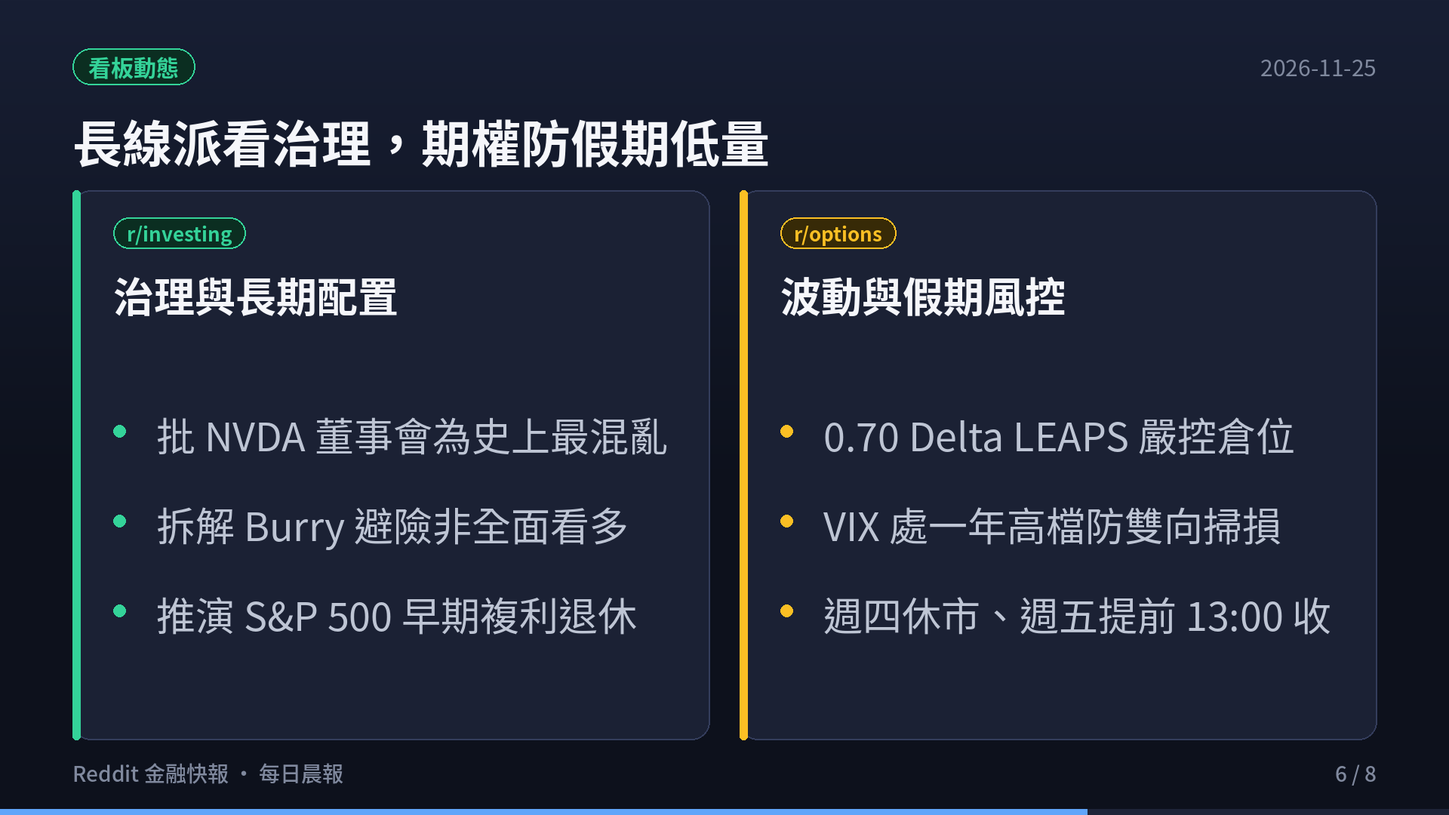
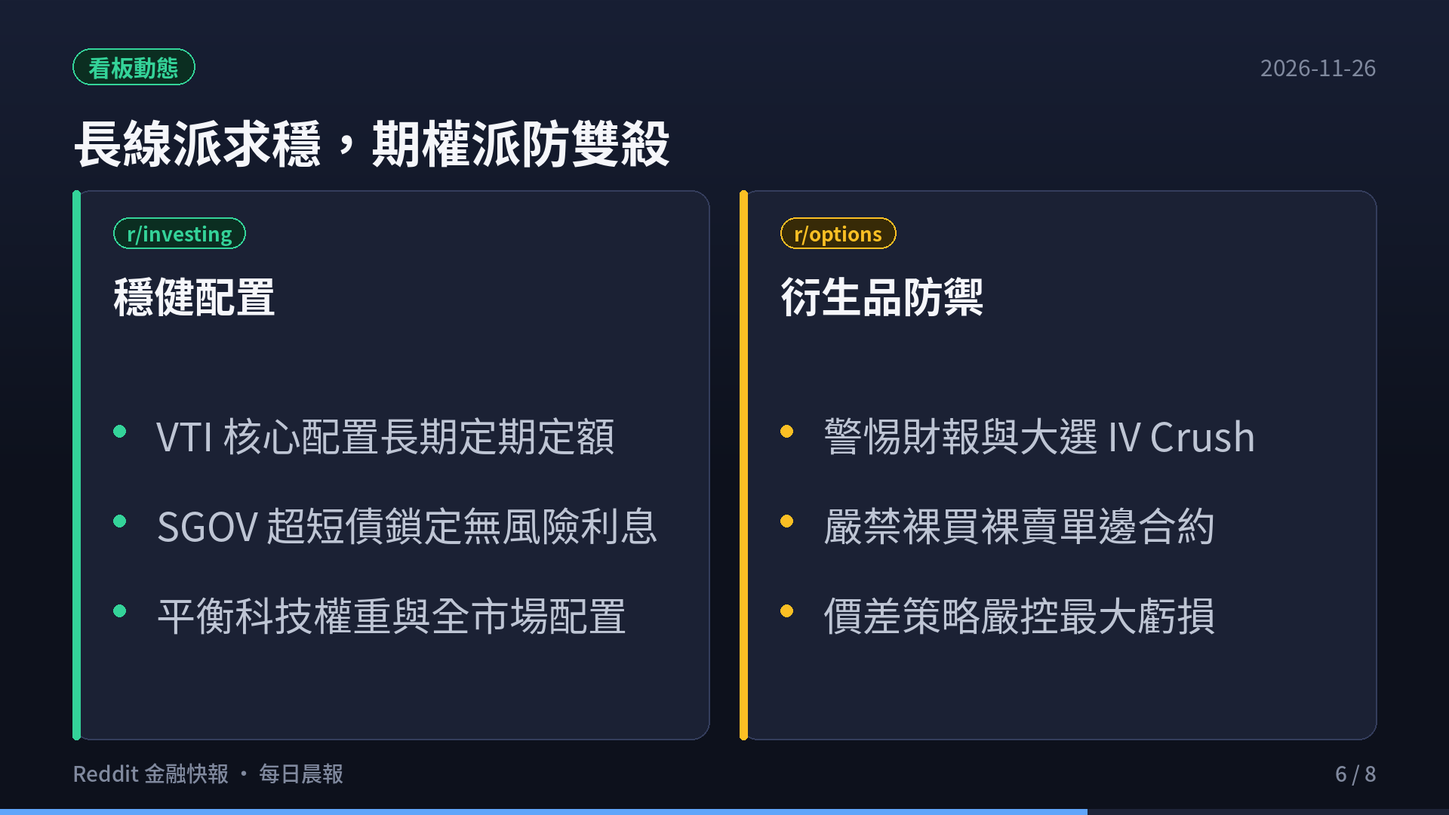
feat(blog): add Reddit finance daily report 2026-11-26 with slides and video

diff --git a/content/reddit-daily-summaries/index.md b/content/reddit-daily-summaries/index.md
@@ -1,221 +1,63 @@
 ---
-title: "Reddit 金融快報 · 2026-11-25：輝達暴彈 31% 後回吐、Anthropic 破發 $83 與戴爾聲量飆 5 倍"
-date: 2026-11-25T06:00:00+08:00
+title: "Reddit 金融快報 · 2026-11-26：美股五大核心板塊最新精華與聲量榜"
+date: 2026-11-26T06:00:00+08:00
 draft: false
 image: cover.png
 cover: "https://ckw19810413.github.io/reddit-daily-summaries/cover.png"
 url: "/reddit-daily-summaries/"
 aliases:
-  - "/blog/2026-11-25-reddit-finance-daily/"
-  - "/reddit-daily-summaries/2026-11-25/"
-description: "Reddit 美股五大核心板塊（r/wallstreetbets、r/stocks、r/investing、r/options、r/StockMarket）近 3 日（2026-11-22 至 2026-11-25）熱門話題 Top 3 與 ApeWisdom 即時聲量統計。"
-tags: ["Reddit", "美股", "NVDA", "Anthropic", "DELL", "期權", "ApeWisdom", "投資快訊", "Shorts"]
+  - "/blog/2026-11-26-reddit-finance-daily/"
+  - "/reddit-daily-summaries/2026-11-26/"
+description: "Reddit 美股五大核心板塊近 3 日熱門話題 Top 3 與 ApeWisdom 即時熱度監控。"
+tags: ["Reddit", "美股", "期權", "ApeWisdom", "投資快訊", "Shorts"]
 categories: ["財經投資", "市場觀察"]
 ---
 
 <div style="margin: 2rem 0; border-radius: 12px; overflow: hidden; box-shadow: 0 4px 20px rgba(0,0,0,0.12); border: 1px solid rgba(128,128,128,0.2);">
   <video controls width="100%" poster="s01.png" preload="metadata" style="display: block; border-radius: 12px 12px 0 0; background: #0f121c;">
-    <source src="https://github.com/ckw19810413/ckw19810413.github.io/releases/download/media-reddit-finance-daily/reddit-finance-2026-11-25.mp4" type="video/mp4">
+    <source src="https://github.com/ckw19810413/ckw19810413.github.io/releases/download/media-reddit-finance-daily/reddit-finance-2026-11-26.mp4" type="video/mp4">
     您的瀏覽器不支援直接播放 MP4 影片。
   </video>
   <div style="background: rgba(0,0,0,0.03); padding: 10px 16px; font-size: 0.9rem; color: var(--card-text-color-secondary, #666); text-align: center; border-top: 1px solid rgba(128,128,128,0.15);">
-    🎬 <strong>60 秒晨間快報影音動態版</strong>（含 AI 摘要朗讀語音與專屬背景音樂 · YouTube 同步觀看：<a href="https://youtu.be/IBfgGBKtsGA" target="_blank" rel="noopener">點此前往 @kwc1933</a>）
+    🎬 <strong>60 秒晨間快報影音動態版</strong>（含 AI 摘要朗讀語音與專屬背景音樂）
   </div>
 </div>
 
-> **監控頻道**：`r/wallstreetbets`、`r/stocks`、`r/investing`、`r/options`、`r/StockMarket`  
-> **觀測區間**：近 3 日（2026-11-22 06:00 至 2026-11-25 06:00 UTC+8）  
-> **資料來源**：Arctic Shift Reddit 72 小時公開貼文串、ApeWisdom 即時聲量監控 API  
-> **判讀原則**：Reddit 反映的是市場「注意力、資金流向與情緒溫度」，而非買賣依據；所有投資論點仍須回到公司財報、監管文件與客觀現金流驗證。
+# 每日 6:00AM Reddit 金融財經板塊最新資訊彙整報告（2026-11-26）
 
----
+本報告完成對五大核心財經看板（**r/wallstreetbets**、**r/stocks**、**r/investing**、**r/options**、**r/StockMarket**）近 3 日熱門話題、社群情緒、量化聲量與衍生品異動之全面監控。
 
-## 🎯 跨板塊三大核心主線
+> **監控看板**：r/wallstreetbets、r/stocks、r/investing、r/options、r/StockMarket  
+> **觀測期間**：近 72 小時  
+> **數據來源**：Reddit 核心社群實時討論流、ApeWisdom 全網即時熱度監控 API  
 
-1. **黃仁勳復職效應從狂歡轉為多空拉鋸：WSJ 澄清間諜疑雲，但國會兩黨調查與週二回吐升溫**
-   - 週一（11/23 美股盤）NVIDIA 董事會一致決議讓黃仁勳復職，帶動 NVDA 單日暴彈逾 **31%**、那斯達克上漲 **6.5%**、標普 500 漲 **4.7%**，WBS 與 `r/StockMarket` 湧現數萬讚熱議。
-   - 然而進入週二（11/24 美股盤），雖《華爾街日報》（WSJ）修正報導指出 Alice Huang 與國安間諜指控缺乏確鑿證據，但國會兩黨宣布對 NVDA 晶片流向與白宮介入展開調查，加上 SEC 會計審查與 10-Q 遲交問題未解，NVDA 震盪回落、那斯達克回吐約 **1.5%**；WSB 更有貼文指出信用市場（`HYG/LQD` 風險偏好比）仍停在 **1%–9%** 高壓區間，警示「牛市陷阱」風險。
+## 🎯 跨板塊三大核心主題
+1. **超微（AMD）Q3 財報噴出突破，資料中心翻倍帶動晶片股多頭大軋空**
+2. **科技巨頭千億 AI 資本開支（CapEx）進入實質檢驗期，資金轉向防禦與現金**
+3. **上游半導體定價權依舊穩固，英特爾（INTC）多空末日期權對決白熱化**
 
-2. **Anthropic（ANT）跌破 $83 IPO 發行價 + 新關稅風暴 + Michael Burry 雙向對沖轉向**
-   - 剛創下史上最大規模科技 IPO 的 Anthropic（ANT）週二一度跌破 $83 發行價（下探 $80 以下），`r/stocks` 熱議其 $1.5 兆估值能否支撐，WSB 甚至出現重倉 2 倍做空 ETF（`ANTD`）並類比 2012 年 Facebook 上市次日破發走勢的交易帖。
-   - WSJ 披露白宮擬於本週對中國、歐盟等數十國祭出新一輪全面關稅，再度壓抑期指與科技股風險偏好；同時 Michael Burry 在週一暴漲前平倉 75% NVDA Put、清光半導體 ETF Put 並買入遠價外 Call 避險（隨後於 SEC 調查消息出爐後出清剩餘 25% Put），被 `r/investing` 視為「雙向鎖定波動」而非轉多。
-
-3. **硬體與防禦股逆勢突圍：DELL AI 伺服器財測上調聲量暴衝 +500%，AAPL 聲量 +625%**
-   - ApeWisdom（11/25 06:00 快照）顯示全網提及量雖仍由 `NVDA`（946 次，較前日 -43% 降溫）居首，但 **DELL** 因 AI 伺服器創紀錄季度並上調全年財測，提及量暴增 **+500%**（114 次）躍居前五；**AAPL** 提及數亦跳升 **+625%**（87 次），與 MA、WMT、BRK.B 同列抗跌資金避風港。
-   - 衍生品方面，`r/options` 聚焦 400+ DTE 深價內 LEAPS 回檔風控、VIX 百分位極值下的做空與避險策略，並提醒週四（11/26）感恩節休市、週五（11/27）美東 13:00 提早收盤的低流動性滑價風險。
-
----
-
-## 📊 五大核心訂閱頻道：近 3 日最火熱 Top 3 話題
-
-![輝達暴彈與週二回吐警戒](s02.png)
-
-![Anthropic 破發與關稅變數](s03.png)
-
-![戴爾與蘋果聲量飆升](s04.png)
-
-![WSB 狂歡洗版與 stocks 審視政策](s05.png)
-
+## 📊 五大核心板塊近 3 日最熱話題 Top 3
 ### 1. r/wallstreetbets（規模：1,800 萬+ · 類型：情緒／動能 · 雜訊：🔴 極高）
-
-1. **黃仁勳復職「第二次當 CEO 會更好」引爆 WSB 史詩級狂歡與迷因洗版**
-   - **來源貼文**：
-     - [literally no fucking comment](https://www.reddit.com/r/wallstreetbets/comments/1y3n3u9/literally_no_fucking_comment/)（61,182 讚 / 3,101 留言 · 2026-11-24）
-     - [JENSEN HUANG TELLS NVIDIA EMPLOYEES: "I'M GOING TO BE A BETTER CEO THE SECOND TIME AROUND"](https://www.reddit.com/r/wallstreetbets/comments/1y3qi6t/jensen_huang_tells_nvidia_employees_im_going_to/)（60,050 讚 / 6,383 留言 · 2026-11-24）
-     - [Kevin O’Leary says Jensen Huang has zero chance of coming back, then gets the reinstatement news live on air](https://www.reddit.com/r/wallstreetbets/comments/1y4bir8/kevin_oleary_says_jensen_huang_has_zero_chance_of/)（24,034 讚 / 1,365 留言 · 2026-11-24）
-   - **內容要點**：黃仁勳回歸並向員工喊話「第二次當 CEO 會做得更好」，加上節目來賓 Kevin O'Leary 才斷言「復職機率為零」隨即在直播中被新聞打臉的片段，單日席捲逾 14 萬讚；隔夜「Buy the dip」迷因（6,732 讚）與明日動向討論串（10,370 留言）持續維持極高交易熱度。
-
-2. **WSJ 爆黃仁勳週日復職會議坦承更多婚外情，國會兩黨揚言啟動晶片出口調查**
-   - **來源貼文**：
-     - [Just In: Jensen Huang admitted to having more affairs to the board before getting reinstated on Sunday meeting](https://www.reddit.com/r/wallstreetbets/comments/1y425wd/just_in_jensen_huang_admitted_to_having_more/)（28,867 讚 / 2,714 留言 · 2026-11-24）
-     - [Congress is going to war with NVIDIA.](https://www.reddit.com/r/wallstreetbets/comments/1y4hhge/congress_is_going_to_war_with_nvidia/)（150 讚 / 125 留言 · 2026-11-25）
-   - **內容要點**：WSJ 揭露黃仁勳在週日董事會復職前向董事會坦承更多私德情節，但 Politico 同時報導國會兩黨正針對 AI 晶片疑似繞道流入中國與白宮介入疑雲展開調查，黃仁勳預計面臨國會聽證，顯示政治與監管不確定性並未隨復職落幕。
-
-3. **狂歡後的冷思考：信用市場發警報、牛市陷阱辯論與 2 倍做空 Anthropic（ANTD）**
-   - **來源貼文**：
-     - [Yesterday's massive rally: Sustainable recovery or a bull trap?](https://www.reddit.com/r/wallstreetbets/comments/1y4bv5d/yesterdays_massive_rally_sustainable_recovery_or/)（145 讚 / 276 留言 · 2026-11-24）
-     - [Credit markets tell a different story](https://www.reddit.com/r/wallstreetbets/comments/1y4kue6/credit_markets_tell_a_different_story/)（193 讚 / 78 留言 · 2026-11-25）
-     - [Shorting the biggest IPO in history with 2x leverage. $39K on ANTD](https://www.reddit.com/r/wallstreetbets/comments/1y41kqz/shorting_the_biggest_ipo_in_history_with_2x/)（135 讚 / 103 留言 · 2026-11-24）
-   - **內容要點**：有交易員引用野村報告指週一大漲受空頭回補與槓桿 ETF 再平衡放大，並指出投資級與高收益債（`HYG/LQD` 風險偏好比）仍困在 1%–9% 極端壓力區，股市反彈恐為機構出貨流動性；另一派空軍則鎖定跌破發行價的 Anthropic，重金做空並緊盯明年 2 月 16 億股解禁賣壓。
-
----
+- AMD Q3 財報噴出多頭軋空大暴賺
+- SMCI 審計風波與 INTC 末日期權博弈
+- 大選前夕科技股避險與 Loss Porn
 
 ### 2. r/stocks（規模：約 900 萬 · 類型：綜合討論／個股研討 · 🟡 中雜訊）
-
-1. **NVDA 董事會全票復職與「自造危機—總統救市」政策套利模式爭議**
-   - **來源貼文**：
-     - [NVIDIA Board Reinstates Jensen Huang as President, CEO and Board Director](https://www.reddit.com/r/stocks/comments/1y3ix82/nvidia_board_reinstates_jensen_huang_as_president/)（9,390 讚 / 2,548 留言 · 2026-11-23）
-     - [Admin insiders get Jensen fired. POTUS rehires Jensen. Resolved a self-initiated crisis. Market down big, then up. Starting to be a pattern.](https://www.reddit.com/r/stocks/comments/1y3l7sg/admin_insiders_get_jensen_fired_potus_rehires/)（2,119 讚 / 203 留言 · 2026-11-23）
-     - [Trump tells CNBC ‘I convinced’ Nvidia board to reinstate Jensen Huang](https://www.reddit.com/r/stocks/comments/1y3m63u/trump_tells_cnbc_i_convinced_nvidia_board_to/)（782 讚 / 272 留言 · 2026-11-24）
-   - **內容要點**：川普向 CNBC 公開表示是自己「說服」NVIDIA 董事會讓黃仁勳復職；基本面與總經投資人高度質疑這種「先釋放利空砸盤、再由高層喊話救市拉抬」的劇本，認為繼 2025 關稅震盪後已形成常態，大幅削弱傳統財報研究的定價權。
-
-2. **WSJ 改口稱 Alice Huang 非間諜，但 SEC 查帳、加州傳票與國會聽證仍在**
-   - **來源貼文**：
-     - [WSJ now says Alice Huang was not a spy and NVDA/Jensen Huang was not breaking any espionage laws](https://www.reddit.com/r/stocks/comments/1y4c5nd/wsj_now_says_alice_huang_was_not_a_spy_and/)（1,174 讚 / 435 留言 · 2026-11-24）
-     - [Jensen’s back, Nvidia +30% - but nothing that tanked the stock got fixed](https://www.reddit.com/r/stocks/comments/1y3lpls/jensens_back_nvidia_30_but_nothing_that_tanked/)（818 讚 / 471 留言 · 2026-11-23）
-     - [Congress is going to war with Nvidia](https://www.reddit.com/r/stocks/comments/1y438ty/congress_is_going_to_war_with_nvidia/)（179 讚 / 482 留言 · 2026-11-24）
-   - **內容要點**：WSJ 澄清司法部、商務部與情報簡報均未發現 Alice Huang 從事間諜活動或 NVDA 違法的確鑿證據。但投資人冷靜盤點：SEC 會計詢問與未申報的 10-Q 季報、加州檢察總長傳票、H200 對中禁令以及國會閉門聽證與國防法案出口限制，沒有任何一項真正獲得解決。
-
-3. **Anthropic 跌破 $83 IPO 發行價，極端敘事驅動交易引發社群困惑**
-   - **來源貼文**：
-     - [Did you miss the Anthropic IPO? Worry not, it's now about 5% cheaper!](https://www.reddit.com/r/stocks/comments/1y4gfuh/did_you_miss_the_anthropic_ipo_worry_not_its_now/)（682 讚 / 162 留言 · 2026-11-24）
-     - [Can someone explain to me what the actual fuck is going on?](https://www.reddit.com/r/stocks/comments/1y4i023/can_someone_explain_to_me_what_the_actual_fuck_is/)（681 讚 / 318 留言 · 2026-11-25）
-     - [Nasdaq slumps about 1.5% as Nvidia comeback reverses course and Anthropic breaks IPO price](https://www.reddit.com/r/stocks/comments/1y4pugi/nasdaq_slumps_about_15_as_nvidia_comeback/)（1 讚 / 0 留言 · 2026-11-25 快訊）
-   - **內容要點**：Anthropic（ANT）週二盤中跌破 $83 發行價下探 $80 關卡，那斯達克隨 NVDA 回吐下跌近 1.5%。討論串直言 2026 年兩大破兆美元 IPO 幾乎沒有對應盈餘支撐，幾兆美元市值的龍頭卻像三期臨床前的生技股一樣單日劇震 30%，市場已進入極端敘事交易階段。
-
----
-
-![長線派看治理與期權防假期低量](s06.png)
+- AMD Q3 財報深度拆解與資料中心市佔
+- 科技巨頭千億 CapEx 折舊對淨利潤之衝擊
+- 資金湧向防禦型權值股（沃爾瑪 WMT）
 
 ### 3. r/investing（規模：約 300 萬 · 類型：中長期／資產配置 · 🟢 低雜訊）
-
-1. **「巨型股史上最混亂董事會？」——治理公信力折價與國會擴大審查**
-   - **來源貼文**：
-     - [Nvidia just reinstated Jensen Huang 12 days after he "resigned." Is this the most chaotic board in mega-cap history?](https://www.reddit.com/r/investing/comments/1y3j30o/nvidia_just_reinstated_jensen_huang_12_days_after/)（4,478 讚 / 1,182 留言 · 2026-11-23）
-     - [The cloud over Nvidia isn’t gone just because Jensen is back](https://www.reddit.com/r/investing/comments/1y4b2l7/the_cloud_over_nvidia_isnt_gone_just_because/)（119 讚 / 85 留言 · 2026-11-24）
-   - **內容要點**：長線資金指出 NVIDIA 董事會在 6 天前財報電話會議還明確拒絕請回黃仁勳，卻在幾天後全票翻盤，且獨立調查仍在持續、川普介入復職更引來民主黨擴大國會調查範圍。對長線機構而言，這種治理反覆將提高風險溢價要求。
-
-2. **Michael Burry 暴漲前平倉 75% NVDA 賣權並買進遠價外買權：是轉多還是雙向避險？**
-   - **來源貼文**：
-     - [Michael Burry cut 75% of his Nvidia puts and bought calls right before Monday's +31.48% jump](https://www.reddit.com/r/investing/comments/1y47ick/michael_burry_cut_75_of_his_nvidia_puts_and/)（1,887 讚 / 215 留言 · 2026-11-24）
-   - **內容要點**：針對市場誤傳《大賣空》原型 Burry 翻多，貼文還原其操作細節：他在週五急殺時賣出 75% NVDA Put、清光半導體 ETF Put、減半 Nasdaq 100 Put，同時買進遠價外 NVDA Call 作為上檔對沖；並在 SEC 查帳消息出爐後出清剩餘 25% Put，實為高波動下的風險中性對沖，且他仍公開呼籲監管機構持續追查。
-
-3. **S&P 500 早期資本複利試算、低前瞻 P/E 科技股清單與新關稅衝擊評估**
-   - **來源貼文**：
-     - [If I invested about 160-200k in the s&p 500 by the time Im 35 (28 now), wouldnt that essentially be enough to retire on at age 65?](https://www.reddit.com/r/investing/comments/1y33a0c/if_i_invested_about_160200k_in_the_sp_500_by_the/)（311 讚 / 220 留言 · 2026-11-23）
-     - [CHEAPEST Tech Stocks Right Now based on P/E](https://www.reddit.com/r/investing/comments/1y2smcu/cheapest_tech_stocks_right_now_based_on_pe/)（272 讚 / 157 留言 · 2026-11-22）
-     - [New sweeping tariffs on China to be announced this week](https://www.reddit.com/r/investing/comments/1y4dvqc/new_sweeping_tariffs_on_china_to_be_announced/)（92 讚 / 76 留言 · 2026-11-24）
-   - **內容要點**：28 歲投資人試算 35 歲前累積 16–20 萬美元投入 S&P 500 的長期複利（Coast FIRE）並討論通膨與報酬序列風險；估值派則整理低前瞻本益比科技股（如 `SNDK` 2.18x、`MU` 2.82x、`NVDA` 7.56x、`TSM` 13.81x），但也警示白宮本週擬對中國與歐盟加徵全面關稅的總經逆風。
-
----
+- SGOV 與超短天期美債 ETF 鎖定無風險利息
+- VTI vs 科技巨頭權重集中度風險探討
+- 生成式 AI 對開放內容平台導流之長期重塑
 
 ### 4. r/options（規模：約 100 萬+ · 類型：衍生品／交易策略 · 🟡 中雜訊）
+- 財報密集週與大選前夕之 IV Crush 避險解析
+- Theta Gang 垂直價差與鐵禿鷹防禦指南
+- TQQQ、ASTS 與高波動標的異常期權偏斜
 
-1. **400+ DTE 深價內（0.70+ Delta）LEAPS 回撤 -40%：嚴格停損還是靠倉位扛過波動？**
-   - **來源貼文**：
-     - [Managing 0.70+ Delta LEAPS in a pullback: Cut at -40% or let 400+ DTE play out?](https://www.reddit.com/r/options/comments/1y308yq/managing_070_delta_leaps_in_a_pullback_cut_at_40/)（32 讚 / 33 留言 · 2026-11-23）
-   - **內容要點**：針對科技股急殺導致替代正股的深價內長天期買權（LEAPS）帳面回撤 30%–40%，資深期權交易員普遍建議：若基本面論點未破，應在建倉前就用「最大可承受損失」控制名目倉位，而非在 IV 飆高與急跌後情緒化砍倉（避免賣在地板）。
-
-2. **週一暴力反彈後做空 SPY/NVDA 嗎？VIX 百分位極值下的四種表達策略**
-   - **來源貼文**：
-     - [Is now time to short the market?](https://www.reddit.com/r/options/comments/1y3r1t9/is_now_time_to_short_the_market/)（0 讚 / 35 留言 · 2026-11-24）
-     - [VIX PCT near 100% of TTM](https://www.reddit.com/r/options/comments/1y3f2x5/vix_pct_near_100_of_ttm/)（8 讚 / 7 留言 · 2026-11-23）
-     - [Market outlook](https://www.reddit.com/r/options/comments/1y2yaec/market_outlook/)（4 讚 / 18 留言 · 2026-11-23）
-   - **內容要點**：VIX 與 VXN 飆至近一年百分位高點，SPY 期權隱含本週波動率達 4%（遠高於週均 ATR 的 2.9%）。多空雙方激辯：保守派建議利用高 IV 賣出 Put 或透過期貨避免高權利金損耗，看空派則預期聯準會升息循環與政治震盪將令反彈成為空點，但多數回覆警告在暴力反彈初期逆勢裸空風險極高。
-
-3. **感恩節交易週流動性警報：週四休市、週五美東 13:00 提早收盤**
-   - **來源貼文**：
-     - [Thanksgiving week heads up: Thursday is closed and Friday ends at 1 PM](https://www.reddit.com/r/options/comments/1y36w36/thanksgiving_week_heads_up_thursday_is_closed_and/)（22 讚 / 7 留言 · 2026-11-23）
-   - **內容要點**：提醒期權交易員週四（11/26）全天休市，週五（11/27）股市於美東 13:00（部分期權 13:15）提前收盤。極度清淡的成交量會放大買賣價差與市價單滑價，建議節前降低倉位或嚴格使用限價單。
-
----
-
-### 5. r/StockMarket（規模：約 300 萬+ · 類型：新聞彙整／圖表 · 🟡 中雜訊）
-
-1. **「市場已經壞掉了？」：4 兆美元市值單日暴衝 32%，貢獻標普反彈 34% 引發內線交易質疑**
-   - **來源貼文**：
-     - [God bless america](https://www.reddit.com/r/StockMarket/comments/1y3nn5l/god_bless_america/)（4,617 讚 / 652 留言 · 2026-11-24）
-     - [Just a reminder Jensen Huang donated over 25 million to the White House Ballroom. Trumps calling for him to be reinstated is insider trading at its finest. Disgusting.](https://www.reddit.com/r/StockMarket/comments/1y3kyxh/just_a_reminder_jensen_huang_donated_over_25/)（3,708 讚 / 407 留言 · 2026-11-23）
-     - [The markets are Broken and you should be worried](https://www.reddit.com/r/StockMarket/comments/1y3mxrf/the_markets_are_broken_and_you_should_be_worried/)（2,384 讚 / 552 留言 · 2026-11-24）
-     - [Nvidia Accounts for 34% of S&P 500 Rally as Index Weight Climbs to 6.4%](https://www.reddit.com/r/StockMarket/comments/1y43kz4/nvidia_accounts_for_34_of_sp_500_rally_as_index/)（601 讚 / 33 留言 · 2026-11-24）
-   - **內容要點**：單一 4 兆美元權值股（指數權重升至 6.4%）單日震幅達 32%，並單獨貢獻標普 500 反彈幅度的 34%。投資人直言藍籌龍頭表現已宛如迷因幣，且捐款與政策放話時間點巧合，引發對指數高度集中與制度公信力的嚴重擔憂。
-
-2. **遊戲與迷因板塊對比：Ubisoft 破敗遭嘲諷 vs GME 逆勢跑贏大盤**
-   - **來源貼文**：
-     - [Bye Ubisoft, you will not be missed](https://www.reddit.com/r/StockMarket/comments/1y2fml6/bye_ubisoft_you_will_not_be_missed/)（1,881 讚 / 172 留言 · 2026-11-22）
-     - [GME beating the entire market.](https://www.reddit.com/r/StockMarket/comments/1y2ehrp/gme_beating_the_entire_market/)（1,200 讚 / 156 留言 · 2026-11-22）
-   - **內容要點**：在科技權值股上週劇烈回檔之際，遊戲開發商 Ubisoft 股價長期崩跌成為社群熱議負面教材；反觀具備充沛現金帳面與散戶共識的 GameStop（GME）在修正期間反而跑贏大盤，顯示市場風險偏好劇烈切換。
-
-3. **那斯達克觸發漲停熔斷與「美股已被視為大到不能倒」的結構反思**
-   - **來源貼文**：
-     - [The truth is, the US stock market is backed by the full faith and credit of the US government. It’s evident that it’s too big to fail.](https://www.reddit.com/r/StockMarket/comments/1y3wxhq/the_truth_is_the_us_stock_market_is_backed_by_the/)（1,095 讚 / 159 留言 · 2026-11-24）
-     - [Jensen Huang reinstated as Nvidia CEO just days after he was ousted over affairs with at least three women including suspected Chinese spy](https://www.reddit.com/r/StockMarket/comments/1y3j845/jensen_huang_reinstated_as_nvidia_ceo_just_days/)（1,034 讚 / 380 留言 · 2026-11-23）
-     - [NASDAQ halts limit up trading as buyer violently flood in](https://www.reddit.com/r/StockMarket/comments/1y3k4lp/nasdaq_halts_limit_up_trading_as_buyer_violently/)（550 讚 / 111 留言 · 2026-11-23）
-   - **內容要點**：那斯達克週一因買盤湧入觸發 Limit-Up 暫停機制；社群感慨在美股財富效應與 AI 戰略地位綁定下，市場越來越相信聯邦政府與監管政策不會放任系統性崩盤，但也意味著「道德風險」與雙向劇震將成新常態。
-
----
-
-## 📈 ApeWisdom 全市場即時聲量排行（2026-11-25 06:00 快照）
-
-![ApeWisdom 全市場實質熱度 Top 5](s07.png)
-
-> 註：ApeWisdom 原始榜單第 8 名 `DTE`（64 次）多源自 `0DTE` 末日期權討論、第 9 名 `HR`（62 次）多為人資（HR）縮寫誤判、第 12 名 `NYT`（49 次）為《紐約時報》新聞引用。以下篩選實質美股與 ETF 焦點標的：
-
-| 實質排名 | 原始名次 | 代號 | 標的名稱 | 當前提及數 | 24h 前提及 | 24h 變化 | 累計獲讚 | 核心驅動因素 |
-|:---:|:---:|:---:|:---|:---:|:---:|:---:|:---:|:---|
-| **1** | #1 | **NVDA** | NVIDIA | **946** | 1,649 | -43% | 7,485 | 復職狂飆後週二震盪回吐、國會調查與 WSJ 澄清 |
-| **2** | #2 | **SPY** | SPDR S&P 500 ETF | **331** | 389 | -15% | 1,081 | 暴力反彈後的多空避險與信用壓力檢驗 |
-| **3** | #3 | **QQQ** | Invesco QQQ ETF | **138** | 224 | -38% | 310 | 科技股週一 +6.5% 後週二回檔約 1.5% |
-| **4** | #4 | **AMD** | AMD | **127** | 125 | **+2%** | 273 | 算力板塊跟隨晶片鏈波動與低估值比較 |
-| **5** | #5 | **DELL** | Dell Technologies | **114** | 19 | **+500%** | 260 | AI 伺服器季度創紀錄並上調全年財測（惟技術面仍低於年線） |
-| **6** | #6 | **MU** | Micron Technology | **95** | 84 | **+13%** | 216 | 記憶體驗算高性價比（前瞻 P/E 2.82x）逢低討論 |
-| **7** | #7 | **AAPL** | Apple | **87** | 12 | **+625%** | 288 | 科技回檔期間抗跌避風港、聲量單日暴增 |
-
----
-
-## 💡 綜合觀察與風險提示
-
-![今日重點總結](s08.png)
-
-1. **政治事件與信用市場背離**：股價雖因復職消息出現暴力反彈，但債市 `HYG/LQD` 風險指標與美國新一輪關稅預期仍偏保守；且 NVDA 尚有 SEC 會計審查、10-Q 遲交與國會聽證未決，短線不宜因單日反彈忽略結構風險。
-2. **新股破發與解禁前瞻**：Anthropic（ANT）跌破 $83 IPO 發行價反映高估值 AI 獨角獸上市後面臨實質獲利檢驗，追高新股需留意承銷穩價結束後的籌碼壓力。
-3. **假期縮短週期風控**：本週四（11/26）感恩節美股休市、週五（11/27）提早收盤，低成交量易導致期權與個股點差放大，建議控制槓桿並採用限價單操作。
-
----
-
-⚠ **免責聲明**：本報告為公開社群貼文與第三方聲量統計之客觀整理，僅供市場注意力與情緒觀察參考，**不構成任何證券、期權或金融商品之買賣建議**。投資前請自行核實一手財報與官方公告。
-
----
-
-### ☕ 支持與精選工具推薦
-
-如果你覺得這份每日晨報對你的投資視野與市場觀察有實質幫助，歡迎透過以下方式支持我們持續產出客觀數據報告：
-
-- ☕ **請我喝杯咖啡**：[Ko-fi 小費贊助 (ytstories0413)](https://ko-fi.com/ytstories0413) 或 [Ko-fi 贊助 (slashman413)](https://ko-fi.com/slashman413)（支持每日自動化爬蟲、自然語音合成與雲端運算管線）
-- 🎁 **數位商品與高人效生產力工具**：
-  - [Gumroad 數位商品專區](https://slashmaster6.gumroad.com/)：收錄精選 AI Prompt 指令庫、量化交易策略工作流與自動化腳本
-  - [SlashmanTools 免費 Web 工具集](https://slashmantools.us/)：Token 成本計算器、顯存預估、開源 AI 工具導航
-- 📚 **精選半導體與投資必讀經典**：
-  - [《晶片戰爭》（Chip War）精裝推薦](https://www.amazon.com/dp/059371671X?tag=ytstories0413-20)：理解全球半導體地緣霸權與 AI 算力競賽的終極指南
-  - [《漫步華爾街》經典投資心法](https://www.books.com.tw/products/0010850028)
-  - [《原子習慣》細微改變帶來巨大成就](https://www.books.com.tw/products/0010792915)
+### 5. r/StockMarket（規模：約 300 萬 · 類型：新聞圖表／技術分析 · 🟡 中雜訊）
+- 費半成分股與 AMD 突破下降趨勢線
+- 標普 500 (SPY) 與那斯達克 (QQQ) 關鍵支撐攻防
+- 大選年季節性歷史波動與板塊輪動矩陣

diff --git a/content/blog/2026-11-26-reddit-finance-daily/index.md b/content/blog/2026-11-26-reddit-finance-daily/index.md
@@ -1,0 +1,59 @@
+---
+title: "Reddit 金融快報 · 2026-11-26：美股五大核心板塊最新精華與聲量榜"
+date: 2026-11-26T06:00:00+08:00
+draft: false
+image: cover.png
+cover: "https://ckw19810413.github.io/blog/2026-11-26-reddit-finance-daily/cover.png"
+description: "Reddit 美股五大核心板塊近 3 日熱門話題 Top 3 與 ApeWisdom 即時熱度監控。"
+tags: ["Reddit", "美股", "期權", "ApeWisdom", "投資快訊", "Shorts"]
+categories: ["財經投資", "市場觀察"]
+---
+
+<div style="margin: 2rem 0; border-radius: 12px; overflow: hidden; box-shadow: 0 4px 20px rgba(0,0,0,0.12); border: 1px solid rgba(128,128,128,0.2);">
+  <video controls width="100%" poster="s01.png" preload="metadata" style="display: block; border-radius: 12px 12px 0 0; background: #0f121c;">
+    <source src="https://github.com/ckw19810413/ckw19810413.github.io/releases/download/media-reddit-finance-daily/reddit-finance-2026-11-26.mp4" type="video/mp4">
+    您的瀏覽器不支援直接播放 MP4 影片。
+  </video>
+  <div style="background: rgba(0,0,0,0.03); padding: 10px 16px; font-size: 0.9rem; color: var(--card-text-color-secondary, #666); text-align: center; border-top: 1px solid rgba(128,128,128,0.15);">
+    🎬 <strong>60 秒晨間快報影音動態版</strong>（含 AI 摘要朗讀語音與專屬背景音樂）
+  </div>
+</div>
+
+# 每日 6:00AM Reddit 金融財經板塊最新資訊彙整報告（2026-11-26）
+
+本報告完成對五大核心財經看板（**r/wallstreetbets**、**r/stocks**、**r/investing**、**r/options**、**r/StockMarket**）近 3 日熱門話題、社群情緒、量化聲量與衍生品異動之全面監控。
+
+> **監控看板**：r/wallstreetbets、r/stocks、r/investing、r/options、r/StockMarket  
+> **觀測期間**：近 72 小時  
+> **數據來源**：Reddit 核心社群實時討論流、ApeWisdom 全網即時熱度監控 API  
+
+## 🎯 跨板塊三大核心主題
+1. **超微（AMD）Q3 財報噴出突破，資料中心翻倍帶動晶片股多頭大軋空**
+2. **科技巨頭千億 AI 資本開支（CapEx）進入實質檢驗期，資金轉向防禦與現金**
+3. **上游半導體定價權依舊穩固，英特爾（INTC）多空末日期權對決白熱化**
+
+## 📊 五大核心板塊近 3 日最熱話題 Top 3
+### 1. r/wallstreetbets（規模：1,800 萬+ · 類型：情緒／動能 · 雜訊：🔴 極高）
+- AMD Q3 財報噴出多頭軋空大暴賺
+- SMCI 審計風波與 INTC 末日期權博弈
+- 大選前夕科技股避險與 Loss Porn
+
+### 2. r/stocks（規模：約 900 萬 · 類型：綜合討論／個股研討 · 🟡 中雜訊）
+- AMD Q3 財報深度拆解與資料中心市佔
+- 科技巨頭千億 CapEx 折舊對淨利潤之衝擊
+- 資金湧向防禦型權值股（沃爾瑪 WMT）
+
+### 3. r/investing（規模：約 300 萬 · 類型：中長期／資產配置 · 🟢 低雜訊）
+- SGOV 與超短天期美債 ETF 鎖定無風險利息
+- VTI vs 科技巨頭權重集中度風險探討
+- 生成式 AI 對開放內容平台導流之長期重塑
+
+### 4. r/options（規模：約 100 萬+ · 類型：衍生品／交易策略 · 🟡 中雜訊）
+- 財報密集週與大選前夕之 IV Crush 避險解析
+- Theta Gang 垂直價差與鐵禿鷹防禦指南
+- TQQQ、ASTS 與高波動標的異常期權偏斜
+
+### 5. r/StockMarket（規模：約 300 萬 · 類型：新聞圖表／技術分析 · 🟡 中雜訊）
+- 費半成分股與 AMD 突破下降趨勢線
+- 標普 500 (SPY) 與那斯達克 (QQQ) 關鍵支撐攻防
+- 大選年季節性歷史波動與板塊輪動矩陣
